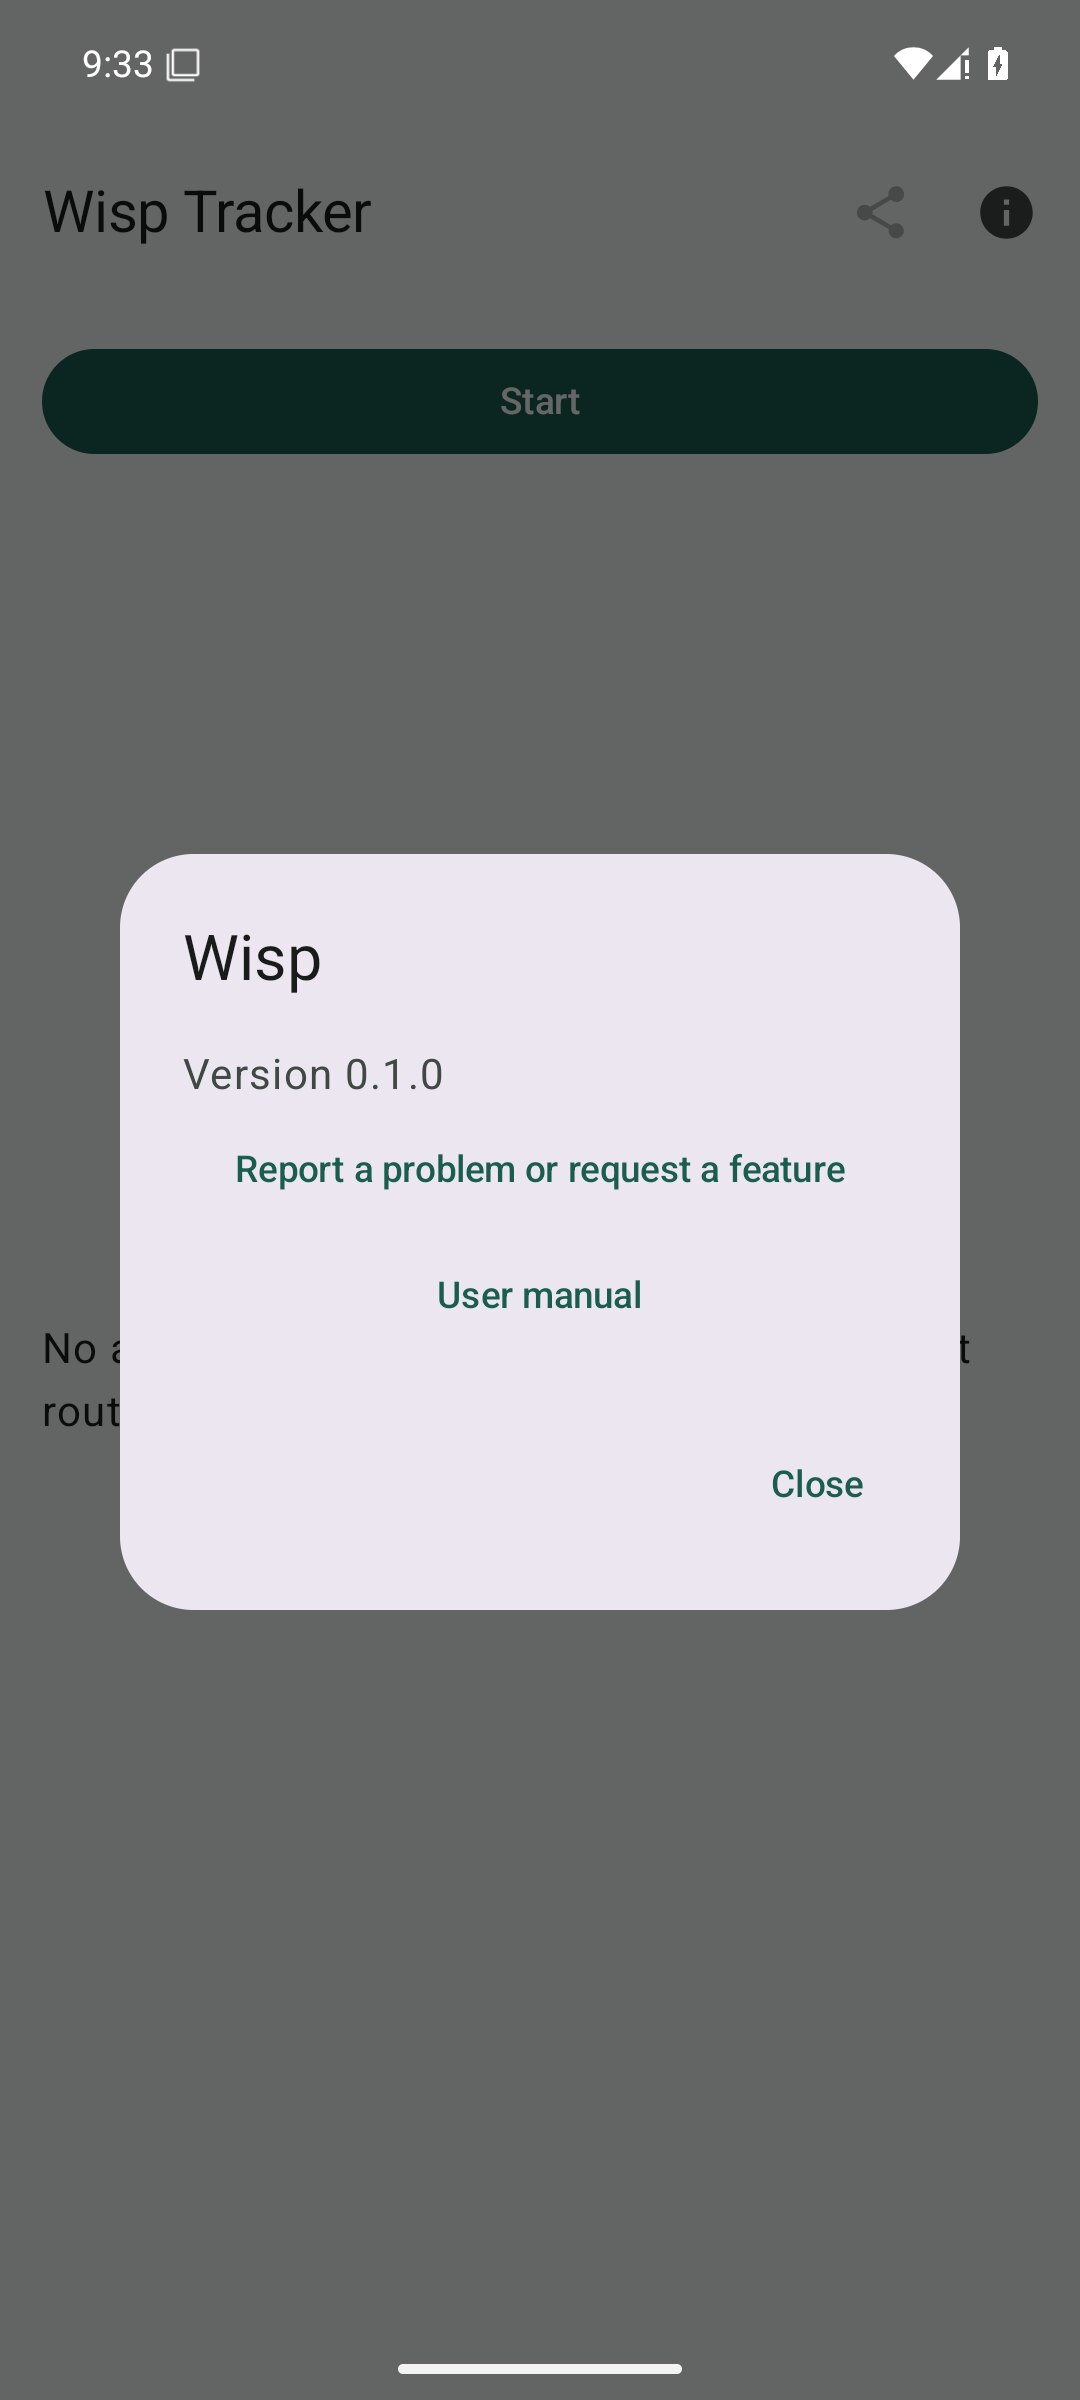
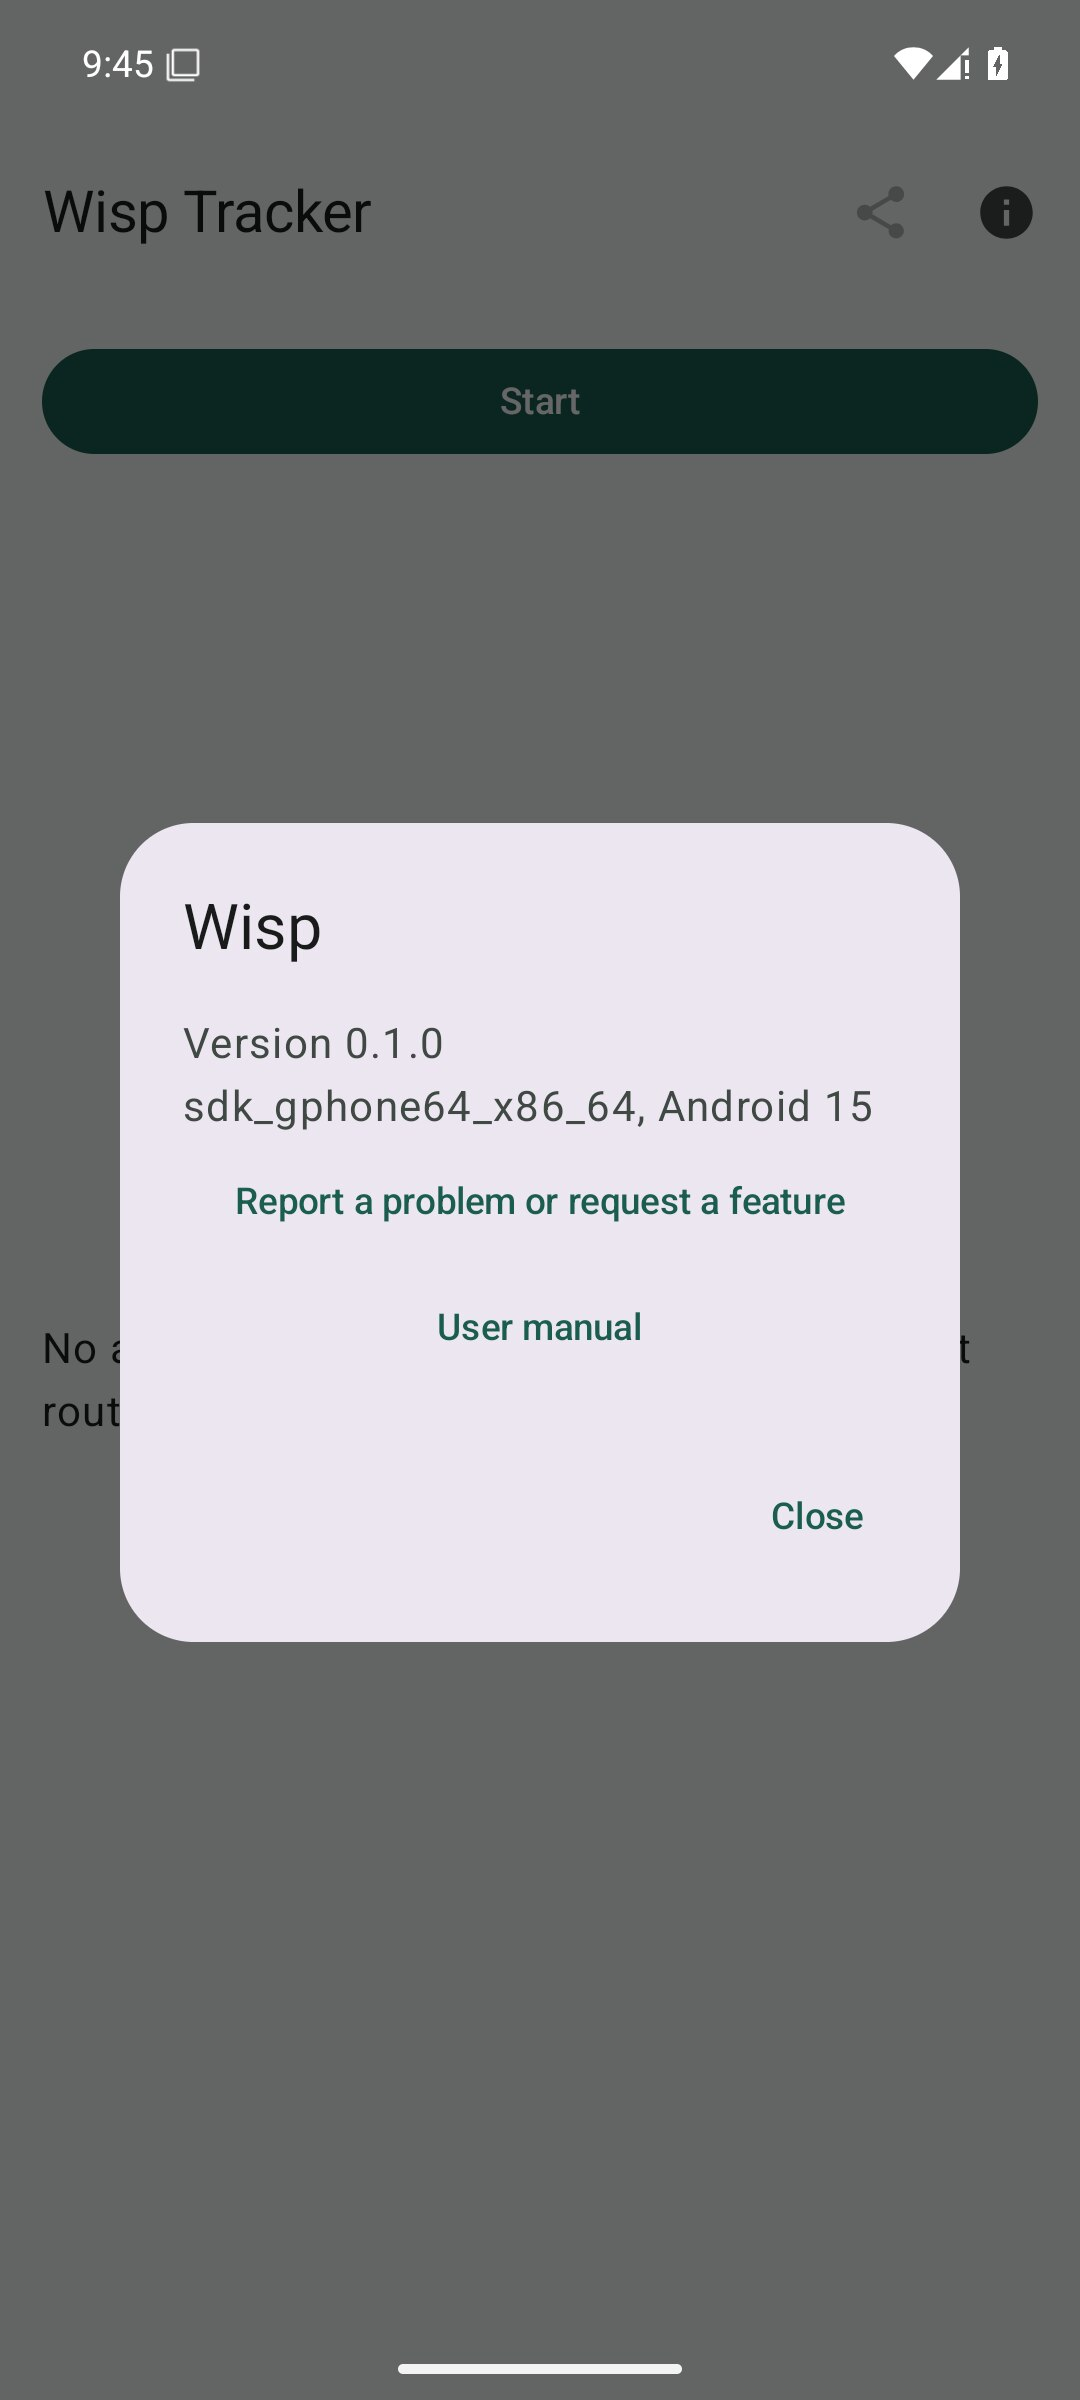
feat(android): show device model and Android version in Information
You asked: can this also include Android version and phone model? Yes —
#52's ask already covered it ("other technical information asked for in
issue templates"), and the bug report template's "Device and Android
version" field is exactly that.

Shows as "<model>, Android <release>" — the same shape as that field's
own placeholder text ("e.g. Pixel 7, Android 15") — so it can be copied
straight in. Updated the issue template field's description to point
back at this. specs/ui-flows.md, the user manual, and
InformationDialogTest all updated to match.

Changed region(s): [[0.0917, 0.3438, 0.8861, 0.5625], [0.0917, 0.5938, 0.8861, 0.6875], [0.0917, 0.0, 0.1222, 0.0312]]

diff --git a/android/app/src/main/java/com/github/tomasbjerre/wisp/ui/home/HomeScreen.kt b/android/app/src/main/java/com/github/tomasbjerre/wisp/ui/home/HomeScreen.kt
@@ -1,6 +1,7 @@
 package com.github.tomasbjerre.wisp.ui.home
 
 import android.content.Context
+import android.os.Build
 import androidx.compose.foundation.layout.Arrangement
 import androidx.compose.foundation.layout.Box
 import androidx.compose.foundation.layout.Column
@@ -167,6 +168,9 @@ private fun InformationDialog(onDismiss: () -> Unit) {
         text = {
             Column {
                 Text("Version ${appVersionName(context)}", style = MaterialTheme.typography.bodyLarge)
+                // Same "<model>, Android <release>" shape as the bug report issue
+                // template's own placeholder text, so this can be copied straight in.
+                Text(deviceInfo(), style = MaterialTheme.typography.bodyLarge)
                 TextButton(onClick = { uriHandler.openUri(FEEDBACK_URL) }, modifier = Modifier.fillMaxWidth()) {
                     Text("Report a problem or request a feature")
                 }
@@ -184,6 +188,8 @@ private fun InformationDialog(onDismiss: () -> Unit) {
 // the device's own app-info screen would show.
 private fun appVersionName(context: Context): String =
     context.packageManager.getPackageInfo(context.packageName, 0).versionName ?: "unknown"
+
+private fun deviceInfo(): String = "${Build.MODEL}, Android ${Build.VERSION.RELEASE}"
 
 @Composable
 private fun SessionList(

diff --git a/android/app/src/androidTest/java/com/github/tomasbjerre/wisp/InformationDialogTest.kt b/android/app/src/androidTest/java/com/github/tomasbjerre/wisp/InformationDialogTest.kt
@@ -1,5 +1,6 @@
 package com.github.tomasbjerre.wisp
 
+import android.os.Build
 import androidx.compose.ui.test.assertIsDisplayed
 import androidx.compose.ui.test.hasText
 import androidx.compose.ui.test.junit4.createAndroidComposeRule
@@ -29,6 +30,9 @@ class InformationDialogTest {
         val context = InstrumentationRegistry.getInstrumentation().targetContext
         val versionName = context.packageManager.getPackageInfo(context.packageName, 0).versionName
         composeRule.onNode(hasText("Version $versionName", substring = true)).assertIsDisplayed()
+        composeRule
+            .onNode(hasText("${Build.MODEL}, Android ${Build.VERSION.RELEASE}", substring = true))
+            .assertIsDisplayed()
         composeRule.onNodeWithText("Report a problem or request a feature").assertIsDisplayed()
         composeRule.onNodeWithText("User manual").assertIsDisplayed()
 

diff --git a/docs/user-manual.md b/docs/user-manual.md
@@ -27,9 +27,11 @@ This is what you see when you open Wisp. It has:
 - **Delete** — the trash icon on each row deletes that activity directly
   from Home, without having to open it first. You'll be asked to confirm.
 - **Information** — the ⓘ icon in the top-right opens a small dialog with
-  Wisp's version (handy if you're about to report a bug — issue reports
-  ask for it), a link to report a problem or request a feature (opens
-  Wisp's GitHub issues in your browser), and a link to this manual:
+  Wisp's version and your device model/Android version (handy if you're
+  about to report a bug — issue reports ask for both, in the same
+  format shown here, so you can copy them straight in), a link to
+  report a problem or request a feature (opens Wisp's GitHub issues in
+  your browser), and a link to this manual:
 
   <img src="screenshots/information-dialog.jpg" alt="Information dialog with app version and links" width="300">
 

diff --git a/specs/ui-flows.md b/specs/ui-flows.md
@@ -111,8 +111,10 @@ Start button and history list, opening an **Information** view — not a
 fourth full screen/navigation destination, since there's nothing here
 that needs one; a dialog over Home is enough. It shows:
 
-- The app's version, so a user filing an issue doesn't have to go
-  digging for it elsewhere.
+- The app's version and the device model/Android version, so a user
+  filing an issue doesn't have to go digging for either elsewhere — and
+  can copy them straight into the matching fields the issue templates
+  already ask for.
 - A link to https://github.com/tomasbjerre/wisp/issues, opening in the
   user's browser, to report a problem or request a feature.
 - A link to the [user manual](https://github.com/tomasbjerre/wisp/blob/main/docs/user-manual.md),
